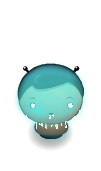
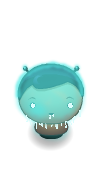
Add enemies to bottom road. Collision doesn't work

Changed region(s): [[0.1485, 0.3509, 0.8614, 0.5848]]

diff --git a/js/app.js b/js/app.js
@@ -365,10 +365,18 @@ var mid3 = new MedEnemy (-500, 133, currentLevel);
 var bot1 = new SlowEnemy (250, 216, currentLevel);
 var bot2 = new SlowEnemy (-250, 216, currentLevel);
 
+var top21 = new FastEnemy (250, 380, currentLevel);
+var top22 = new FastEnemy (-250, 380, currentLevel);
+var mid21 = new MedEnemy (100, 463, currentLevel);
+var mid22 = new MedEnemy (-200, 463, currentLevel);
+var mid23 = new MedEnemy (-500, 463, currentLevel);
+var bot21 = new SlowEnemy (250, 546, currentLevel);
+var bot22 = new SlowEnemy (-250, 546, currentLevel);
+
 
 
 // Place all enemy objects in an array called allEnemies
-var allEnemies = [top1, top2, mid1, mid2, mid3, bot1, bot2];
+var allEnemies = [top1, top2, mid1, mid2, mid3, bot1, bot2, top21, top22, mid21, mid22, mid23, bot21, bot22];
 
 var player = new Player();
 var lives = new Lives();
